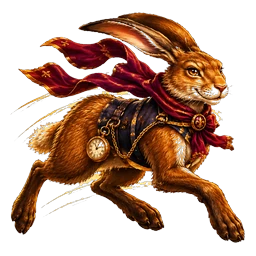
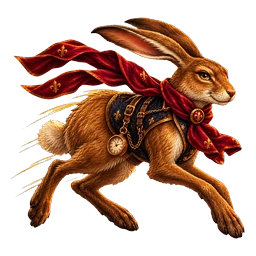
Sonidos: campanilla en eventos de Sir Edwards y en récords; zorro, caracol y liebre con fondo transparente limpio (v187)
Claude-Session: https://claude.ai/code/session_01D8YuskAoU39u1VrYjoDDvg

diff --git a/index.html b/index.html
@@ -47,13 +47,13 @@
 <link rel="preconnect" href="https://fonts.googleapis.com">
 <link rel="preconnect" href="https://fonts.gstatic.com" crossorigin>
 <link href="https://fonts.googleapis.com/css2?family=Playfair+Display:wght@600;700;800&family=Inter:wght@400;500;600;700;800;900&display=swap" rel="stylesheet">
-<link rel="stylesheet" href="styles/main.css?v=186">
+<link rel="stylesheet" href="styles/main.css?v=187">
 <!-- v1.4: estilos de la capa online (cuenta, migración, ranking). Solo clases .seq-* -->
-<link rel="stylesheet" href="styles/online.css?v=186">
-<link rel="stylesheet" href="styles/encargos.css?v=186">
-<link rel="stylesheet" href="styles/encargos-intro.css?v=186">
-<link rel="stylesheet" href="styles/sir-events.css?v=186">
-<link rel="stylesheet" href="styles/theme.css?v=186">
+<link rel="stylesheet" href="styles/online.css?v=187">
+<link rel="stylesheet" href="styles/encargos.css?v=187">
+<link rel="stylesheet" href="styles/encargos-intro.css?v=187">
+<link rel="stylesheet" href="styles/sir-events.css?v=187">
+<link rel="stylesheet" href="styles/theme.css?v=187">
 
 </head>
 <body class="on-home">
@@ -1104,53 +1104,53 @@ try {
 <!-- Fase 2: datos y constantes extraidos a modulos, cargados como scripts
      clasicos (no ES Modules) para conservar el scope global compartido con
      el script principal, sin convertir todavia la app a ES Modules. -->
-<script src="src/data/ui-maps.js?v=186"></script>
-<script src="src/data/questions.js?v=186"></script>
-<script src="src/data/questions-retired.js?v=186"></script>
-<script src="src/data/phrases.js?v=186"></script>
-<script src="src/data/duel-phrases.js?v=186"></script>
-<script src="src/data/lucidez.js?v=186"></script>
-<script src="src/data/medals.js?v=186"></script>
+<script src="src/data/ui-maps.js?v=187"></script>
+<script src="src/data/questions.js?v=187"></script>
+<script src="src/data/questions-retired.js?v=187"></script>
+<script src="src/data/phrases.js?v=187"></script>
+<script src="src/data/duel-phrases.js?v=187"></script>
+<script src="src/data/lucidez.js?v=187"></script>
+<script src="src/data/medals.js?v=187"></script>
 <!-- Prompt 3 — Fase C: sistema de avatares compartido (window.SEQAvatars). Debe
      cargarse antes de src/online/online.js y src/online/duels.js: ambos lo
      consumen en vez de mantener cada uno su propia copia de la lista. -->
-<script src="src/data/avatars.js?v=186"></script>
-<script src="src/share/share-card.js?v=186"></script>
+<script src="src/data/avatars.js?v=187"></script>
+<script src="src/share/share-card.js?v=187"></script>
 
 <!-- Fase 3 (Lote 3A): motor de coincidencia de respuestas extraido a
      src/utils/matching.js, mismo criterio que la Fase 2 (script clasico,
      sin ES Modules todavia). -->
-<script src="src/utils/matching.js?v=186"></script>
-<script src="src/utils/answer-alias.js?v=186"></script>
-<script src="src/utils/lucidez-select.js?v=186"></script>
-<script src="src/state/lucidez-bag.js?v=186"></script>
-<script src="src/utils/encargos-core.js?v=186"></script>
-<script src="src/utils/encargos-progress.js?v=186"></script>
-<script src="src/state/encargos.js?v=186"></script>
-<script src="src/data/encargos-phrases.js?v=186"></script>
-<script src="src/ui/encargos-ui.js?v=186"></script>
-<script src="src/data/named-phrases.js?v=186"></script>
-<script src="src/utils/named-phrases.js?v=186"></script>
-<script src="src/utils/encargos-intro-core.js?v=186"></script>
-<script src="src/data/encargos-intro-phrases.js?v=186"></script>
-<script src="src/ui/encargos-intro.js?v=186"></script>
-<script src="src/data/home-quotes.js?v=186"></script>
-<script src="src/ui/home-quote.js?v=186"></script>
-<script src="src/utils/sir-events.js?v=186"></script>
-<script src="src/ui/sir-events-ui.js?v=186"></script>
-<script src="src/state/sir-events.js?v=186"></script>
-<script src="src/utils/sudden-progression.js?v=186"></script>
-<script src="src/utils/fresh-first.js?v=186"></script>
-<script src="src/utils/mental-calc.js?v=186"></script>
-<script src="src/utils/mental-classic.js?v=186"></script>
-<script src="src/ui/mental-classic-ui.js?v=186"></script>
+<script src="src/utils/matching.js?v=187"></script>
+<script src="src/utils/answer-alias.js?v=187"></script>
+<script src="src/utils/lucidez-select.js?v=187"></script>
+<script src="src/state/lucidez-bag.js?v=187"></script>
+<script src="src/utils/encargos-core.js?v=187"></script>
+<script src="src/utils/encargos-progress.js?v=187"></script>
+<script src="src/state/encargos.js?v=187"></script>
+<script src="src/data/encargos-phrases.js?v=187"></script>
+<script src="src/ui/encargos-ui.js?v=187"></script>
+<script src="src/data/named-phrases.js?v=187"></script>
+<script src="src/utils/named-phrases.js?v=187"></script>
+<script src="src/utils/encargos-intro-core.js?v=187"></script>
+<script src="src/data/encargos-intro-phrases.js?v=187"></script>
+<script src="src/ui/encargos-intro.js?v=187"></script>
+<script src="src/data/home-quotes.js?v=187"></script>
+<script src="src/ui/home-quote.js?v=187"></script>
+<script src="src/utils/sir-events.js?v=187"></script>
+<script src="src/ui/sir-events-ui.js?v=187"></script>
+<script src="src/state/sir-events.js?v=187"></script>
+<script src="src/utils/sudden-progression.js?v=187"></script>
+<script src="src/utils/fresh-first.js?v=187"></script>
+<script src="src/utils/mental-calc.js?v=187"></script>
+<script src="src/utils/mental-classic.js?v=187"></script>
+<script src="src/ui/mental-classic-ui.js?v=187"></script>
 
 <!-- Fase 3 (Lote 3B): nucleo algoritmico de Duelo extraido a
      src/utils/duel.js, mismo criterio que el resto (script clasico, sin
      ES Modules todavia). Las dependencias compartidas con otros modos
      (arrangeStandardBlock, generateLucidezMentalOp)
      permanecen en este script principal, sin moverse en este lote. -->
-<script src="src/utils/duel.js?v=186"></script>
+<script src="src/utils/duel.js?v=187"></script>
 
 <!-- Fase 3 (Lote 3C): defaults, migracion y saneamiento del Store
      extraidos a src/utils/store.js, mismo criterio que el resto (script
@@ -1162,50 +1162,50 @@ try {
      getLevelData) y las 8 funciones de persistencia real (loadStore,
      saveStore, exportProgress...) permanecen en este script principal,
      sin moverse en este lote. -->
-<script src="src/utils/store.js?v=186"></script>
+<script src="src/utils/store.js?v=187"></script>
 
 <!-- Fase 4B: fachada de estado de solo lectura (getStore/getCurrentGame),
      mismo criterio que el resto (script clasico, sin ES Modules todavia).
      No copia, no transforma, no cachea. Ver src/state/read-facade.js. -->
-<script src="src/state/read-facade.js?v=186"></script>
+<script src="src/state/read-facade.js?v=187"></script>
 
-<script src="src/utils/streak-xp.js?v=186"></script>
+<script src="src/utils/streak-xp.js?v=187"></script>
 <!-- Fase 4C: helpers minimos de escritura (pushCapped, resetStreak) para
      eliminar 2 duplicaciones reales concretas -- no un sistema de
      mutaciones. Ver src/state/write-helpers.js y CHANGELOG_FASE4C.md. -->
-<script src="src/state/write-helpers.js?v=186"></script>
+<script src="src/state/write-helpers.js?v=187"></script>
 
 <!-- v1.4: capa online (cuenta Google, sincronización, migración, ranking).
      config.js es PÚBLICO (URL del Worker + Client ID de Google); si está
      vacío, la capa online queda desactivada y la app es idéntica a la v1.3.
      online.js solo usa el store/funciones del juego en tiempo de ejecución. -->
-<script src="src/ui/install-app.js?v=186"></script>
-<script src="src/ui/a11y.js?v=186"></script>
-<script src="src/ui/back-nav.js?v=186"></script>
-<script src="src/ui/game-fx.js?v=186"></script>
-<script src="src/ui/last-life.js?v=186"></script>
-<script src="src/ui/hitos.js?v=186"></script>
-<script src="src/ui/achievements.js?v=186"></script>
-<script src="src/ui/stats-extra.js?v=186"></script>
-<script src="src/ui/name-prompt.js?v=186"></script>
-<script src="src/ui/intro.js?v=186"></script>
-<script src="src/ui/mode-badges.js?v=186"></script>
-<script src="src/ui/lucidez-ui.js?v=186"></script>
-<script src="src/ui/sabias.js?v=186"></script>
-<script src="src/ui/icons.js?v=186"></script>
-<script src="src/online/config.js?v=186"></script>
+<script src="src/ui/install-app.js?v=187"></script>
+<script src="src/ui/a11y.js?v=187"></script>
+<script src="src/ui/back-nav.js?v=187"></script>
+<script src="src/ui/game-fx.js?v=187"></script>
+<script src="src/ui/last-life.js?v=187"></script>
+<script src="src/ui/hitos.js?v=187"></script>
+<script src="src/ui/achievements.js?v=187"></script>
+<script src="src/ui/stats-extra.js?v=187"></script>
+<script src="src/ui/name-prompt.js?v=187"></script>
+<script src="src/ui/intro.js?v=187"></script>
+<script src="src/ui/mode-badges.js?v=187"></script>
+<script src="src/ui/lucidez-ui.js?v=187"></script>
+<script src="src/ui/sabias.js?v=187"></script>
+<script src="src/ui/icons.js?v=187"></script>
+<script src="src/online/config.js?v=187"></script>
 <!-- v2.0: combinación de datos de jugador (mismo código que el servidor) y su sincronización -->
-<script src="src/utils/sync-merge.js?v=186"></script>
-<script src="src/online/data-sync.js?v=186"></script>
-<script src="src/online/online.js?v=186"></script>
+<script src="src/utils/sync-merge.js?v=187"></script>
+<script src="src/online/data-sync.js?v=187"></script>
+<script src="src/online/online.js?v=187"></script>
 <!-- v1.5: Amigos, Duelo online y Retos. El servidor decide preguntas, tiempo, aciertos y ganador. -->
-<script src="src/online/duels.js?v=186"></script>
+<script src="src/online/duels.js?v=187"></script>
 <!-- 2.1: Duelo por apuestas, ELO PvP, Rankings y estadísticas de Duelos (solo presentación; decide el servidor) -->
-<script src="src/online/duels-v21.js?v=186"></script>
-<script src="src/online/inbox.js?v=186"></script>
-<script src="src/online/push.js?v=186"></script>
+<script src="src/online/duels-v21.js?v=187"></script>
+<script src="src/online/inbox.js?v=187"></script>
+<script src="src/online/push.js?v=187"></script>
 <!-- Audio: sonidos del juego (src/audio/audio.js) -->
-<script src="src/audio/audio.js?v=186"></script>
+<script src="src/audio/audio.js?v=187"></script>
 
 <script>
 function closeWelcomeModal() {
@@ -1873,11 +1873,16 @@ function renderRecordBadge(text, tone) {
   if (!text) {
     box.classList.remove('show');
     box.innerHTML = '';
+    recordSoundPlayed = false;
     return;
   }
   box.innerHTML = `<span class="stamp-badge tone-${tone || 'gold'}">${text}</span>`;
   box.classList.add('show');
+  // Nuevo récord: suena la campanilla de récord (y finishGame omite entonces la fanfarra de siempre).
+  recordSoundPlayed = true;
+  playRecordSound();
 }
+let recordSoundPlayed = false;
 
 function getLevelData(xp) {
   let level = 1;
@@ -6209,7 +6214,7 @@ function finishGame(isGameOverDueToFailure = false, isSurvivalFailure = false) {
   // El confeti de celebración se reserva exclusivamente para un modo nuevo.
   // Los logros y una victoria normal no generan celebración emergente.
   // Sin fanfarria de victoria cuando el resultado es una derrota (también en los modos por puntuación).
-  if (!isGameOverDueToFailure && !isSurvivalFailure && newModesUnlocked.length === 0 && lastResultCharacterState !== 'defeat') {
+  if (!isGameOverDueToFailure && !isSurvivalFailure && newModesUnlocked.length === 0 && lastResultCharacterState !== 'defeat' && !recordSoundPlayed) {
     playSound('win');
   }
 

diff --git a/src/audio/audio.js b/src/audio/audio.js
@@ -192,6 +192,34 @@ function playWinFanfare() {
   } catch (e) {}
 }
 
+// ====== Campanillas (eventos de Sir Edwards y récords) ======
+// Timbre de campanilla de mostrador: parciales inarmónicos con ataque seco y caída exponencial.
+// «Evento»: dos golpes (sol agudo y do agudo). «Récord»: tres golpes ascendentes. Respetan el interruptor de sonido.
+const BELL_PARTIALS = [[1, 1], [2.0, 0.45], [2.76, 0.3], [5.4, 0.12]];
+function playBellNote(freq, delay, vol, ringS) {
+  const ctx = getAudioCtx();
+  const t0 = ctx.currentTime + delay;
+  const tau = ringS / 4; // caída: cuatro constantes de tiempo a lo largo del sonido
+  const norm = BELL_PARTIALS.reduce((n, p) => n + p[1], 0);
+  BELL_PARTIALS.forEach(([ratio, amp]) => {
+    const o = ctx.createOscillator(); const g = ctx.createGain();
+    o.type = 'sine'; o.frequency.setValueAtTime(freq * ratio, t0);
+    const peak = vol * amp / norm;
+    g.gain.setValueAtTime(0.0001, t0);
+    g.gain.linearRampToValueAtTime(peak, t0 + 0.002);
+    g.gain.setTargetAtTime(0.0001, t0 + 0.002, tau);
+    o.connect(g); g.connect(ctx.destination); o.start(t0); o.stop(t0 + ringS + 0.05);
+  });
+}
+function playSirEventSound() {
+  if (store.sound === 'off') return;
+  try { playBellNote(1568, 0, 0.5, 1.4); playBellNote(2093, 0.18, 0.45, 1.4); } catch (e) {}
+}
+function playRecordSound() {
+  if (store.sound === 'off') return;
+  try { [1319, 1568, 2093].forEach((f, i) => playBellNote(f, i * 0.16, 0.5 - 0.04 * i, 1.6)); } catch (e) {}
+}
+
 // ====== Música de menús («The Earl's Waiting Room») ======
 // Suena solo fuera de la partida (inicio, Jugar, Duelos, Estadísticas, Logros, Ajustes), a volumen bajo y
 // con fundidos; se pausa al entrar en una partida o un duelo en directo y al salir de la app.

diff --git a/sw.js b/sw.js
@@ -38,7 +38,7 @@
 // styles/main.css, src/data/medals.js, src/utils/store.js y src/online/duels.js (ya en el shell).
 // 2.0 (Prompt 5, tarjeta de compartir): subido de 10 a 11; nuevo src/share/share-card.js
 // (añadido al shell) y cambiaron index.html y src/online/duels.js.
-const CACHE_VERSION = 186;
+const CACHE_VERSION = 187;
 // Dos cachés (ver install/fetch más abajo):
 //  · CACHE_NAME  (versionada): index.html, CSS, JS, manifest e iconos. Es poco y es imprescindible: si no se puede guardar, la
 //    versión nueva no se instala y se queda la anterior.
@@ -565,7 +565,7 @@ const ASSET_REVS = {
   './assets/ui/calavera.webp': '19d4f16e',
   './assets/ui/calculadora-humo.webp': 'd62bbef4',
   './assets/ui/calculadora-laton.webp': '7912ca3d',
-  './assets/ui/caracol.webp': '023fc83a',
+  './assets/ui/caracol.webp': '59071199',
   './assets/ui/cartel-peligro.webp': '97d54d81',
   './assets/ui/casi.webp': '6bfb6d21',
   './assets/ui/celebracion.webp': '87e6433a',
@@ -592,7 +592,7 @@ const ASSET_REVS = {
   './assets/ui/libreta.webp': '3734c844',
   './assets/ui/libro-vela.webp': 'e2da705b',
   './assets/ui/libro.webp': 'fab53d16',
-  './assets/ui/liebre.webp': 'c8e5a336',
+  './assets/ui/liebre.webp': '6781ca8d',
   './assets/ui/marca-duelo.webp': '4ed6e4f5',
   './assets/ui/medalla.webp': 'fecfd017',
   './assets/ui/mediocre.webp': 'aed5e07c',
@@ -615,7 +615,7 @@ const ASSET_REVS = {
   './assets/ui/suspenso.webp': '7489b62c',
   './assets/ui/tiempo.webp': 'ee46f823',
   './assets/ui/xp.webp': 'b4465a36',
-  './assets/ui/zorro.webp': '462a7e7a'
+  './assets/ui/zorro.webp': '31ad5246'
 };
 // </asset-revs>
 

diff --git a/src/ui/sir-events-ui.js b/src/ui/sir-events-ui.js
@@ -41,6 +41,8 @@ const SEQSirEventsUI = (function () {
     void n.offsetWidth;
     visible = true;
     n.classList.add('show');
+    // Sonido de campanilla: el de récord para el aviso de récord, el de siempre para el resto de apariciones.
+    try { if (ev.type === 'record') { if (typeof playRecordSound === 'function') playRecordSound(); } else if (typeof playSirEventSound === 'function') playSirEventSound(); } catch (e) {}
     clearTimeout(hideT);
     hideT = setTimeout(hide, Math.max(2500, Number(ev.durationMs) || 4000));
     return true;

diff --git a/src/ui/mental-classic-ui.js b/src/ui/mental-classic-ui.js
@@ -83,7 +83,7 @@
 
     var m1 = document.getElementById('session-mode-unlock-box'); if (m1) m1.style.display = 'none';
     var m2 = document.getElementById('session-medals-box'); if (m2) m2.style.display = 'none';
-    if (r.category !== 'mal') playSound('win');
+    if (r.category !== 'mal' && !recordSoundPlayed) playSound('win');
   }
 
   window.SEQMentalClassicUI = { isClassic: isClassic, start: start, finish: finish, livesHtml: livesHtml, flagOn: flagOn };
